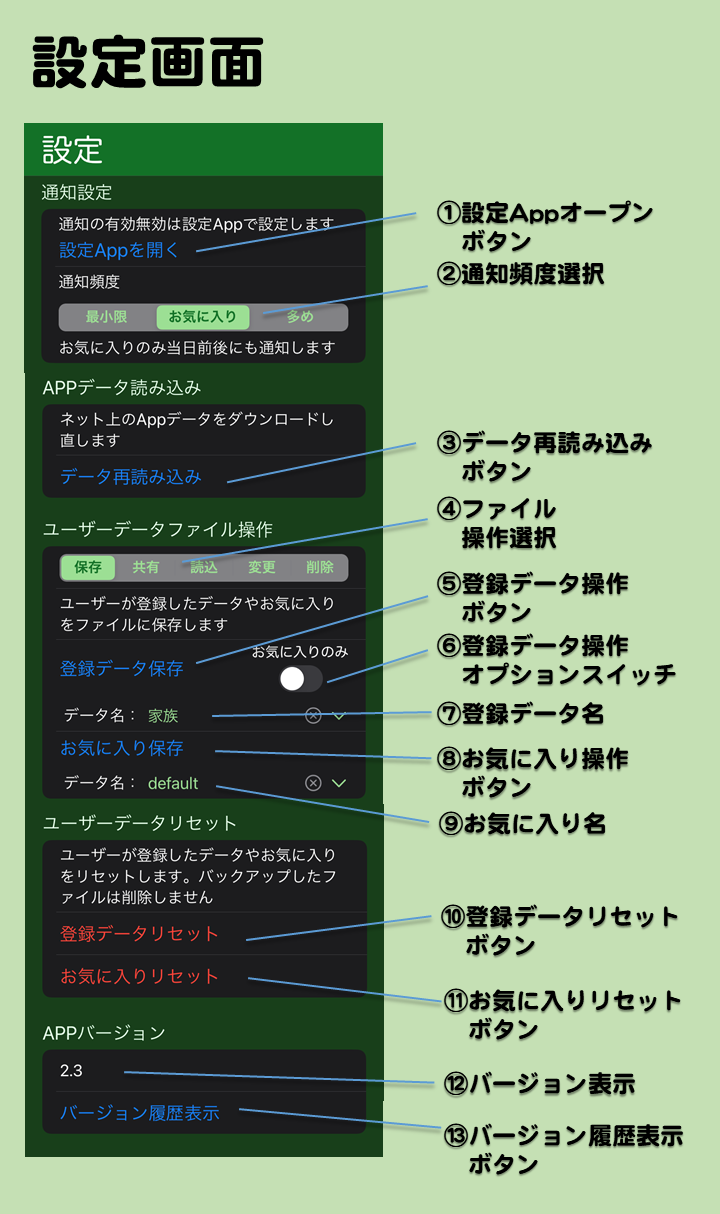
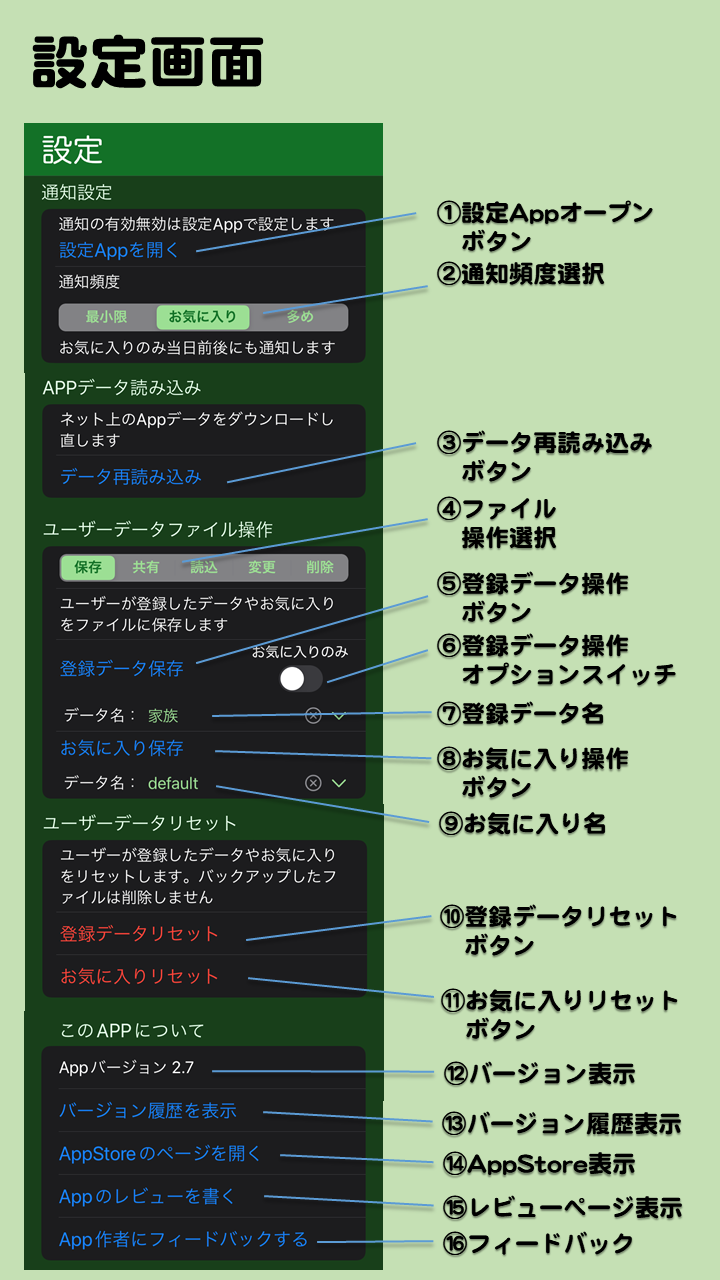
panda setting page

diff --git a/pandabirthday/v2_7/help_settingPage.html b/pandabirthday/v2_7/help_settingPage.html
@@ -119,6 +119,12 @@
       <dd>今使っているAppのバージョン番号を表示します。AppStore にある最新のバージョンと同じか確認できます。</dd>
       <dt>⑬バージョン履歴表示ボタン</dt>
       <dd>今までのバージョン毎の変更内容の履歴を表示できます。</dd>
+      <dt>⑭AppStore表示ボタン</dt>
+      <dd>AppStoreの本Appのページを表示できます。</dd>
+      <dt>⑮レビューページ表示ボタン</dt>
+      <dd>AppStoreのレビューページを開いてレビューをすることができます。</dd>
+      <dt>⑯フィードバックボタン</dt>
+      <dd>メールAppを開いて作者にメールでフィードバックできます。</dd>
     </dl>
   </body>
 </html>
